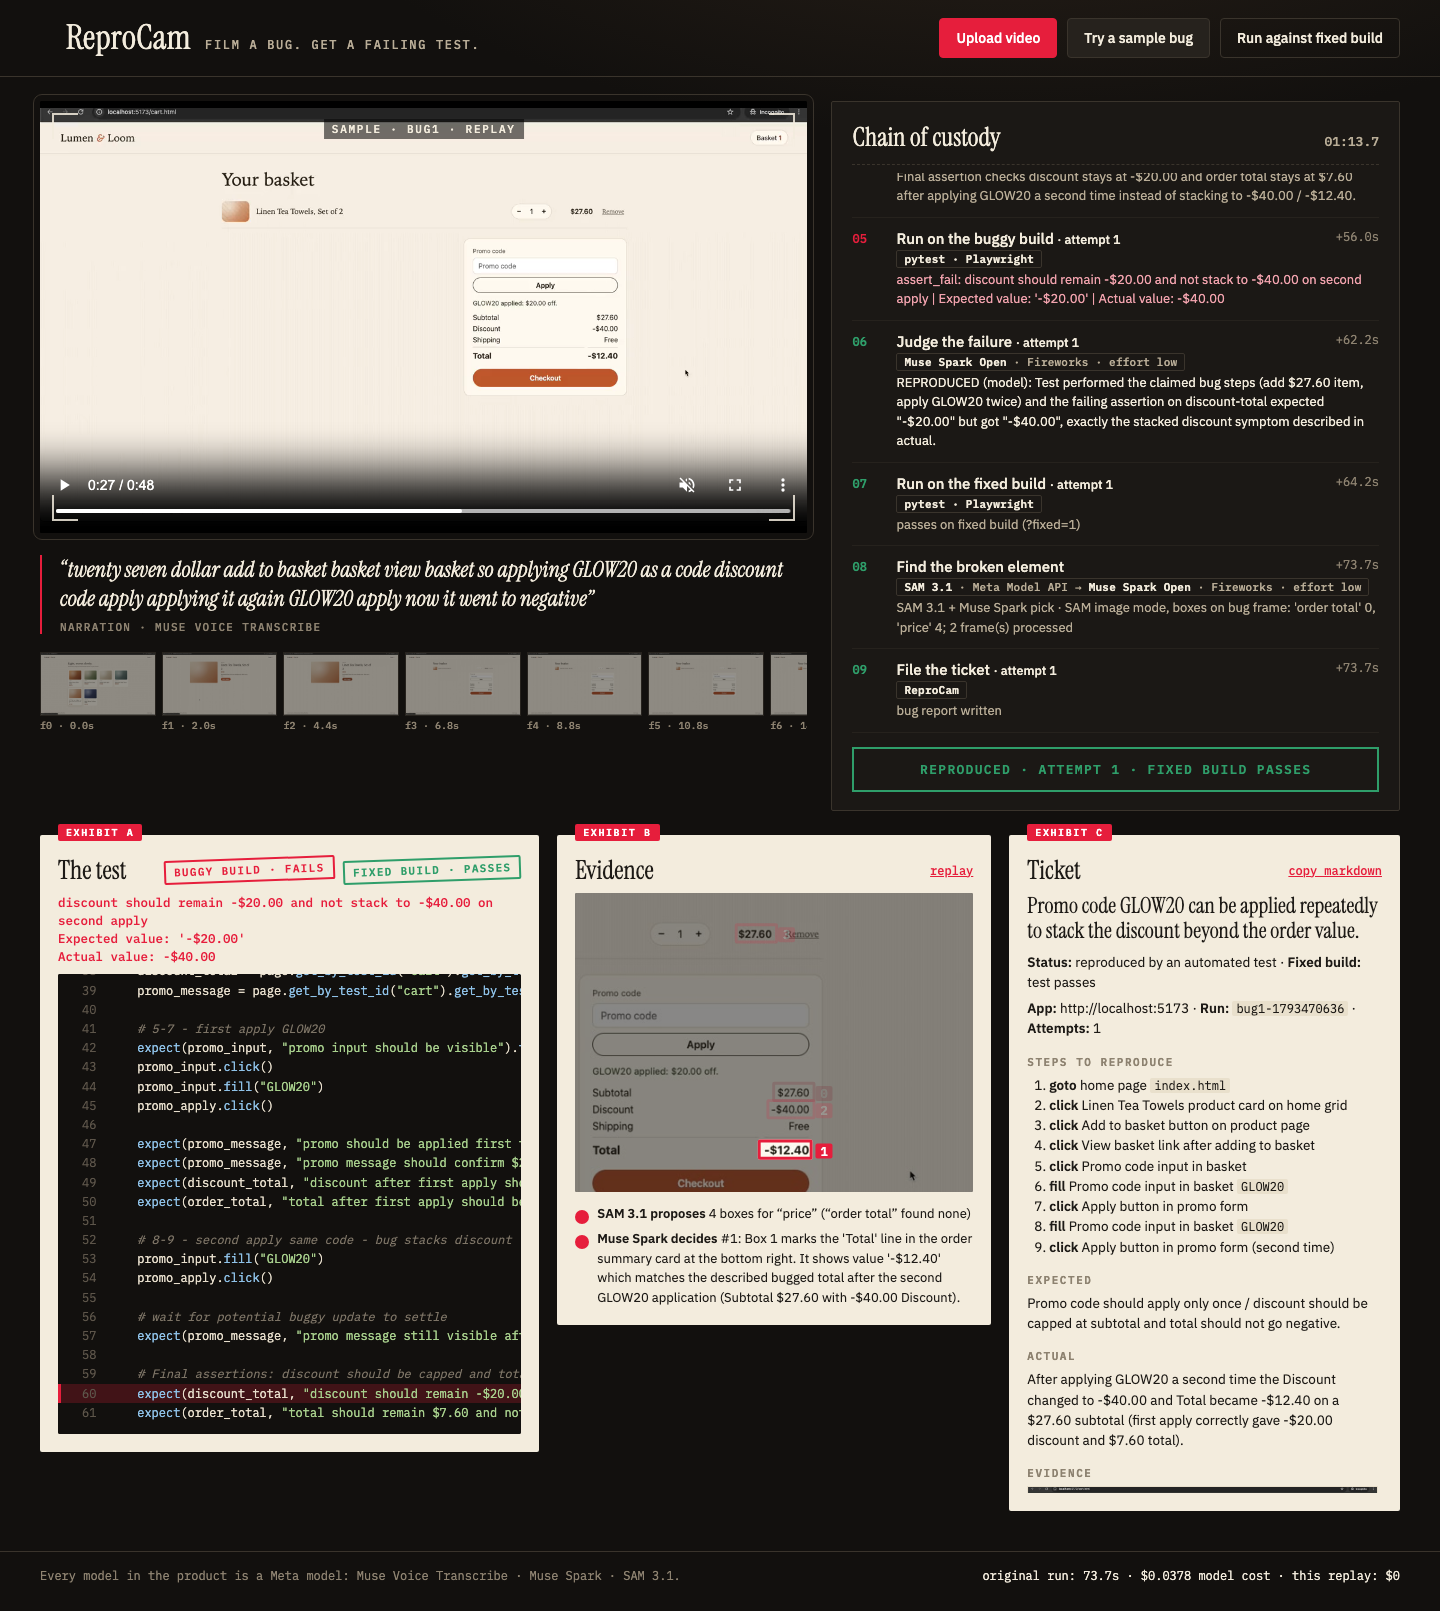
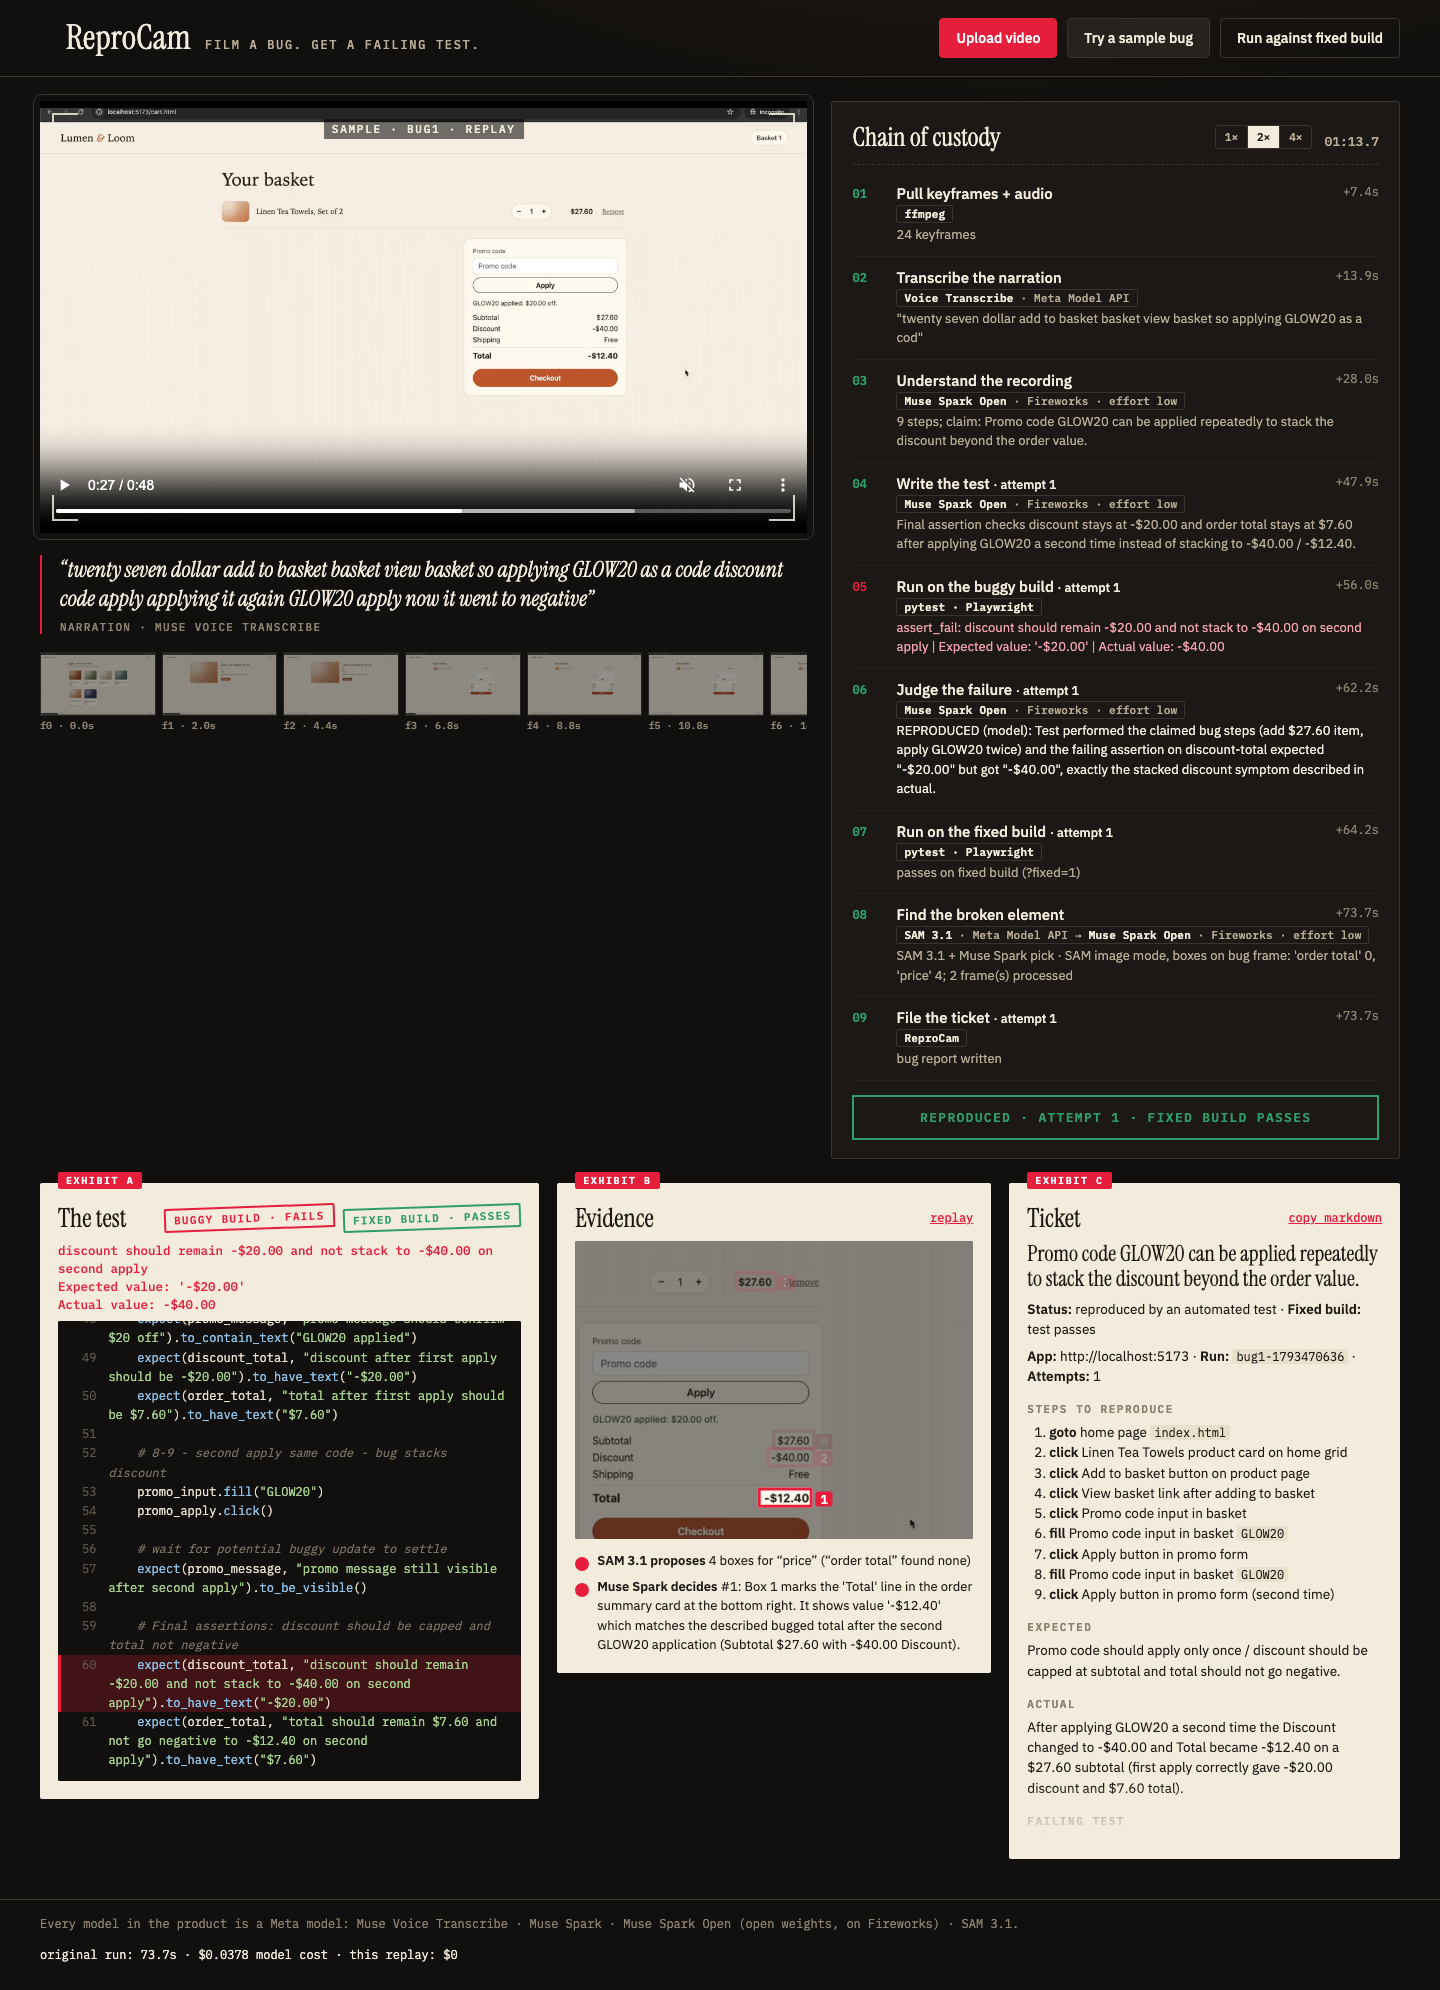
M6 polish: replay speed, wrapped code, full timeline, footer models, ticket card
- Replay speed 1x / 2x / 4x beside the clock, 2x by default for samples; switching
  mid-replay resumes the stream (GET /samples/{id}/events?after=&offset=) with no repeated
  or skipped events. Footer keeps the original run's real time.
- Code panel wraps long lines under the code (line numbers stay aligned) and scrolls itself,
  not the page, to center the failing line.
- Chain of custody no longer scrolls internally: all 9 steps stay visible at the end.
- Footer model list adds Muse Spark Open (open weights, on Fireworks).
- Ticket card skips the evidence section (Exhibit B shows it; copied markdown keeps it) and
  fades its bottom edge while there is more to scroll.

diff --git a/web/app.js b/web/app.js
@@ -3,7 +3,11 @@
 // run summary as its event arrives. ?sample=bug1&speed=4 starts a replay on load.
 
 const $ = (id) => document.getElementById(id);
-const state = { kind: null, id: null, summary: null, source: null, rows: new Map(), n: 0, t0: null, timer: null };
+const state = {
+  kind: null, id: null, summary: null, source: null, rows: new Map(), n: 0, t0: null, timer: null,
+  speed: Number(new URLSearchParams(location.search).get("speed")) || 2,  // samples replay at 2x by default
+  next: 0,  // index of the next replay event, so a speed change can resume from it
+};
 
 const STAGES = {
   frames: "Pull keyframes + audio",
@@ -55,7 +59,7 @@ async function refresh() {
 function reset(label) {
   state.source?.close();
   clearInterval(state.timer);
-  Object.assign(state, { summary: null, rows: new Map(), n: 0, t0: null });
+  Object.assign(state, { summary: null, rows: new Map(), n: 0, t0: null, timer: null, next: 0 });
   $("timeline").replaceChildren();
   $("verdict").hidden = true;
   $("clock").textContent = fmtClock(0);
@@ -76,22 +80,44 @@ function reset(label) {
 
 function listen(url) {
   state.source = new EventSource(url);
-  state.source.onmessage = (m) => onEvent(JSON.parse(m.data));
+  state.source.onmessage = (m) => { state.next += 1; onEvent(JSON.parse(m.data)); };
   state.source.addEventListener("done", (m) => { state.source.close(); onDone(JSON.parse(m.data)); });
   state.source.onerror = () => { if (state.source.readyState === EventSource.CLOSED) return; };
 }
 
-async function startReplay(id, speed = 1) {
+async function startReplay(id) {
   reset(`sample · ${id} · replay`);
   Object.assign(state, { kind: "samples", id });
+  setSpeedButtons(true);
   const s = await refresh();
   showVideo(s.video_url);
   const { events } = await api(`/samples/${id}/replay`, { method: "POST" });
-  listen(`${events}?speed=${speed}`);
+  state.eventsUrl = events;
+  listen(`${events}?speed=${state.speed}`);
+}
+
+function replayTime() {
+  return state.t0 == null ? 0 : ((performance.now() - state.t0) / 1000) * state.speed;
+}
+
+function setSpeed(speed) {
+  const t = replayTime();
+  state.speed = speed;
+  document.querySelectorAll(".speed button").forEach((b) => b.classList.toggle("on", Number(b.dataset.speed) === speed));
+  const replaying = state.kind === "samples" && state.source && state.source.readyState !== EventSource.CLOSED;
+  if (!replaying) return;
+  state.source.close();  // resume the stream at the new speed from where we are
+  if (state.t0 != null) state.t0 = performance.now() - (t * 1000) / speed;
+  listen(`${state.eventsUrl}?speed=${speed}&after=${state.next}&offset=${t.toFixed(2)}`);
+}
+
+function setSpeedButtons(enabled) {
+  document.querySelectorAll(".speed button").forEach((b) => { b.disabled = !enabled; });
 }
 
 async function startUpload(file) {
   reset("uploading …");
+  setSpeedButtons(false);  // live runs go at their own pace
   showVideo(URL.createObjectURL(file));
   const form = new FormData();
   form.append("video", file);
@@ -116,12 +142,11 @@ function showVideo(src) {
 // ---------- events ----------
 
 function tick(t) {
-  const speed = Number(new URLSearchParams(location.search).get("speed") || 1);
+  const speed = state.kind === "samples" ? state.speed : 1;
   state.t0 = performance.now() - (t * 1000) / speed;
   if (!state.timer) {
-    state.timer = setInterval(() => {
-      $("clock").textContent = fmtClock(((performance.now() - state.t0) / 1000) * speed);
-    }, 100);
+    state.timer = setInterval(() => { $("clock").textContent = fmtClock(state.kind === "samples" ? replayTime()
+      : (performance.now() - state.t0) / 1000); }, 100);
   }
 }
 
@@ -158,7 +183,6 @@ function row(e) {
   const bEl = li.querySelector(".badge");
   if (b) { bEl.innerHTML = b; bEl.hidden = false; }
   li.querySelector(".detail").textContent = e.detail || "";
-  li.scrollIntoView({ block: "nearest", behavior: "smooth" });
 }
 
 async function onEvent(e) {
@@ -248,7 +272,10 @@ function highlightFailure(summary) {
   const lines = [...$("code").querySelectorAll(".ln")];
   const hit = lines.find((l) => first && l.textContent.includes(first.slice(0, 40)));
   lines.forEach((l) => l.classList.toggle("hit", l === hit));
-  hit?.scrollIntoView({ block: "center", behavior: "smooth" });
+  if (hit) {  // scroll the code panel only, never the page
+    const code = $("code");
+    code.scrollTo({ top: hit.offsetTop - code.clientHeight / 2 + hit.offsetHeight / 2, behavior: "smooth" });
+  }
 }
 
 function stamp(id, st) {
@@ -347,7 +374,13 @@ function renderMd(md, base) {
 }
 
 function renderTicket(s) {
-  $("ticket").innerHTML = renderMd(s.ticket_md, s.files_base);
+  // The card skips the ticket's Evidence section (Exhibit B shows it); "copy markdown" keeps it.
+  const md = s.ticket_md.replace(/^## Evidence\n[\s\S]*?(?=^## )/m, "");
+  const t = $("ticket");
+  t.innerHTML = renderMd(md, s.files_base);
+  const fade = () => t.classList.toggle("more", t.scrollTop + t.clientHeight < t.scrollHeight - 4);
+  t.onscroll = fade;
+  fade();  // fades the bottom edge while there is more to scroll
   $("copy-ticket").hidden = false;
   $("copy-ticket").onclick = async () => {
     await navigator.clipboard.writeText(s.ticket_md);
@@ -374,6 +407,8 @@ function toggleMenu(open) {
 
 $("sample-btn").onclick = (ev) => { ev.stopPropagation(); toggleMenu($("sample-menu").hidden); };
 document.addEventListener("click", () => toggleMenu(false));
+document.querySelectorAll(".speed button").forEach((b) => { b.onclick = () => setSpeed(Number(b.dataset.speed)); });
+setSpeed(state.speed);
 $("upload").onchange = (ev) => { const f = ev.target.files[0]; if (f) startUpload(f); ev.target.value = ""; };
 
 $("fix-btn").onclick = async () => {
@@ -395,5 +430,5 @@ $("fix-btn").onclick = async () => {
 
 loadSamples().then(() => {
   const q = new URLSearchParams(location.search);
-  if (q.get("sample")) startReplay(q.get("sample"), Number(q.get("speed") || 1));
+  if (q.get("sample")) startReplay(q.get("sample"));
 }).catch((e) => toast(`Can't reach the ReproCam API: ${e.message}`));

diff --git a/web/styles.css b/web/styles.css
@@ -109,11 +109,19 @@ main { padding: 24px clamp(16px, 3vw, 40px) 40px; display: grid; gap: 24px; }
 .filmstrip figure.bug figcaption { color: var(--signal); }
 
 .custody { background: var(--night-2); border: 1px solid var(--line-dark); border-radius: 2px; padding: 18px 20px; display: flex; flex-direction: column; min-height: 0; }
-.custody > header { display: flex; justify-content: space-between; align-items: baseline; border-bottom: 1px dashed var(--line-dark); padding-bottom: 10px; }
+.custody > header { display: flex; justify-content: space-between; align-items: baseline; gap: 12px; border-bottom: 1px dashed var(--line-dark); padding-bottom: 10px; }
+.custody h2 { margin-right: auto !important; }
+.speed { display: inline-flex; border: 1px solid var(--line-dark); border-radius: 3px; overflow: hidden; align-self: center; }
+.speed button {
+  font: 600 11px var(--mono); color: var(--muted-light); background: none; border: 0; padding: 4px 9px; cursor: pointer;
+}
+.speed button + button { border-left: 1px solid var(--line-dark); }
+.speed button.on { background: var(--paper); color: var(--ink); }
+.speed button:disabled { opacity: .35; cursor: not-allowed; }
 .custody h2 { font: 400 26px var(--serif); margin: 0; }
 .clock { font: 500 13px var(--mono); color: var(--muted-light); }
 
-.timeline { list-style: none; margin: 8px 0 0; padding: 0; counter-reset: step; overflow-y: auto; max-height: 560px; }
+.timeline { list-style: none; margin: 8px 0 0; padding: 0; }
 .timeline li {
   display: grid; grid-template-columns: 34px 1fr auto; column-gap: 10px; row-gap: 2px;
   padding: 11px 0; border-bottom: 1px solid var(--night-3); animation: enter .35s ease-out;
@@ -174,12 +182,14 @@ main { padding: 24px clamp(16px, 3vw, 40px) 40px; display: grid; gap: 24px; }
 .failure { font: 500 12.5px/1.45 var(--mono); color: var(--signal); margin: 0 0 8px; min-height: 0; white-space: pre-wrap; }
 .failure:empty { display: none; }
 .code {
+  position: relative; /* offsetTop of lines is measured from here (auto-scroll to the failing line) */
   margin: 0; background: var(--night); color: #e8dfcd; border-radius: 2px; padding: 12px 0;
   font: 12px/1.6 var(--mono); max-height: 460px; overflow: auto; counter-reset: ln;
 }
 .code .placeholder { padding: 0 14px; display: block; }
-.code .ln { display: block; padding: 0 14px 0 0; white-space: pre; }
-.code .ln::before { counter-increment: ln; content: counter(ln); display: inline-block; width: 3.2em; padding-right: 1em; text-align: right; color: #5d554a; }
+/* wrapped lines hang under the code, not under the line number */
+.code .ln { display: block; padding: 0 14px 0 4.2em; text-indent: -4.2em; white-space: pre-wrap; overflow-wrap: anywhere; }
+.code .ln::before { counter-increment: ln; content: counter(ln); display: inline-block; width: 3.2em; padding-right: 1em; text-indent: 0; text-align: right; color: #5d554a; }
 .code .ln.hit { background: rgba(230, 30, 60, .22); box-shadow: inset 3px 0 var(--signal); }
 .code .k { color: #f0a868; } .code .s { color: #a8d08d; } .code .c { color: #7d7466; font-style: italic; } .code .f { color: #8fc2e8; }
 
@@ -211,6 +221,7 @@ main { padding: 24px clamp(16px, 3vw, 40px) 40px; display: grid; gap: 24px; }
 .sam-steps b { font-weight: 600; }
 
 .ticket { font-size: 13.5px; max-height: 600px; overflow: auto; padding-right: 4px; }
+.ticket.more { -webkit-mask-image: linear-gradient(#000 calc(100% - 56px), transparent); mask-image: linear-gradient(#000 calc(100% - 56px), transparent); }
 .ticket h1 { font: 400 22px/1.15 var(--serif); margin: 0 0 8px; }
 .ticket h2 { font: 600 11px var(--mono); letter-spacing: .14em; text-transform: uppercase; color: var(--muted); margin: 16px 0 6px; }
 .ticket p { margin: 6px 0; }

diff --git a/web/index.html b/web/index.html
@@ -54,6 +54,9 @@
       <aside class="custody">
         <header>
           <h2>Chain of custody</h2>
+          <div class="speed" role="group" aria-label="Replay speed">
+            <button data-speed="1">1×</button><button data-speed="2" class="on">2×</button><button data-speed="4">4×</button>
+          </div>
           <span class="clock" id="clock">00:00.0</span>
         </header>
         <ol class="timeline" id="timeline"></ol>
@@ -100,7 +103,7 @@
   </main>
 
   <footer class="foot">
-    <span id="foot-run">Every model in the product is a Meta model: Muse Voice Transcribe · Muse Spark · SAM 3.1.</span>
+    <span id="foot-run">Every model in the product is a Meta model: Muse Voice Transcribe · Muse Spark · Muse Spark Open (open weights, on Fireworks) · SAM 3.1.</span>
     <span id="foot-cost"></span>
   </footer>
   <div class="toast" id="toast" role="status" hidden></div>

diff --git a/backend/api.py b/backend/api.py
@@ -179,15 +179,17 @@ def replay(sid: str):
 
 
 @app.get("/samples/{sid}/events")
-async def sample_events(sid: str, speed: float = 1.0):
+async def sample_events(sid: str, speed: float = 1.0, after: int = 0, offset: float = 0.0):
+    """Replay from event `after` on, as if `offset` seconds of the original run had passed
+    (lets the UI change speed mid-replay by reconnecting)."""
     d = _dir("samples", sid)
     events = [json.loads(line) for line in (d / "events.jsonl").read_text().splitlines() if line.strip()]
     speed = min(max(speed, 0.5), 20.0)
 
     async def stream():
         started = time.time()
-        for e in events:
-            wait = e["t"] / speed - (time.time() - started)
+        for e in events[max(0, after):]:
+            wait = (e["t"] - offset) / speed - (time.time() - started)
             if wait > 0:
                 await asyncio.sleep(wait)
             yield _sse({**e, "replay": True})
